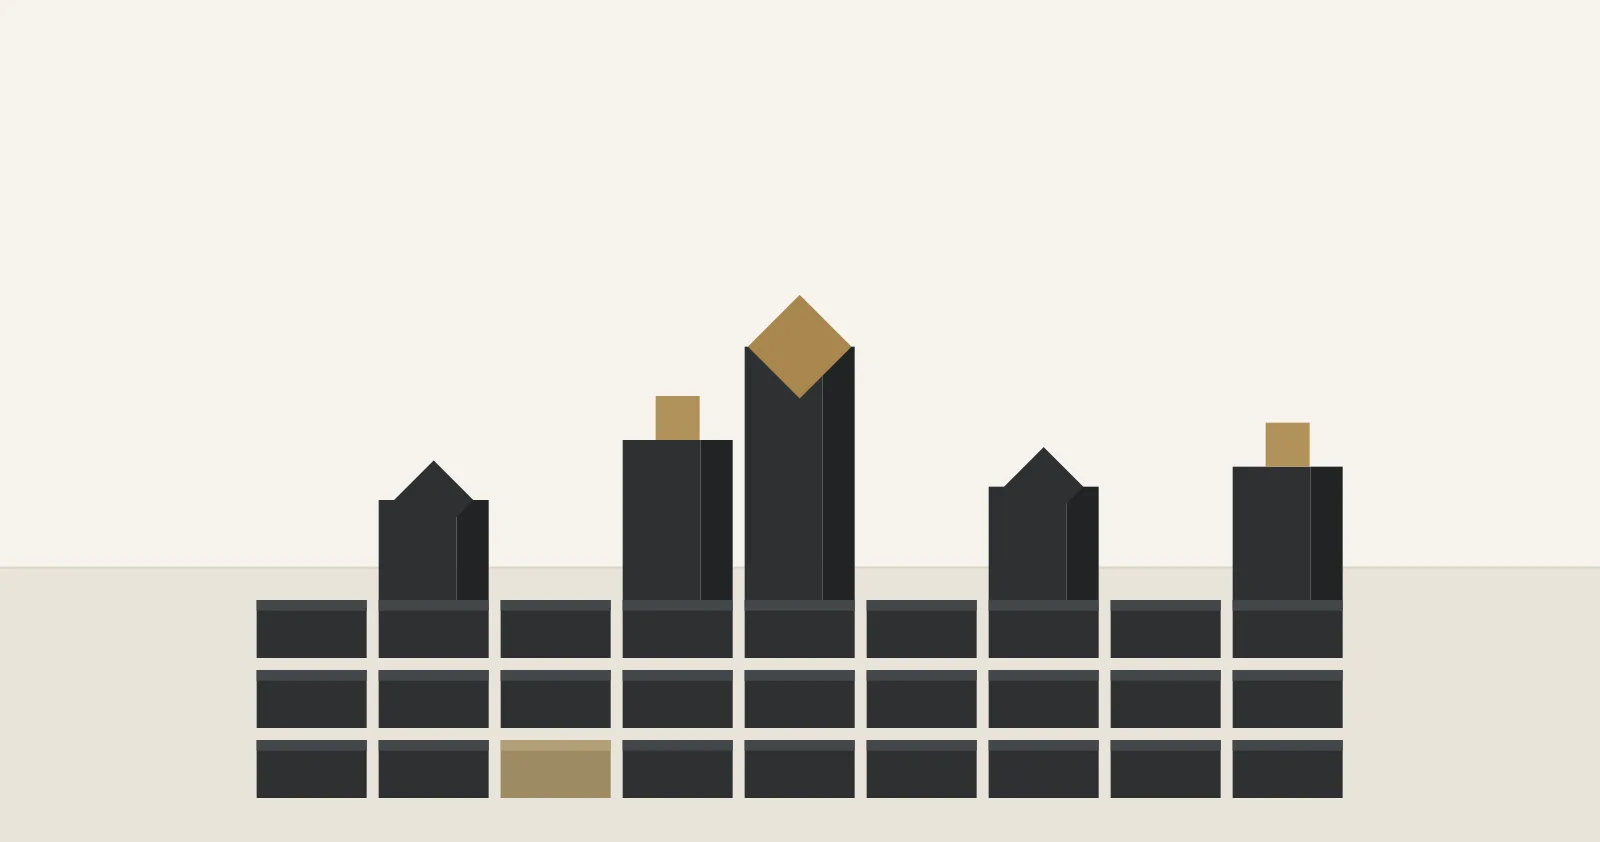
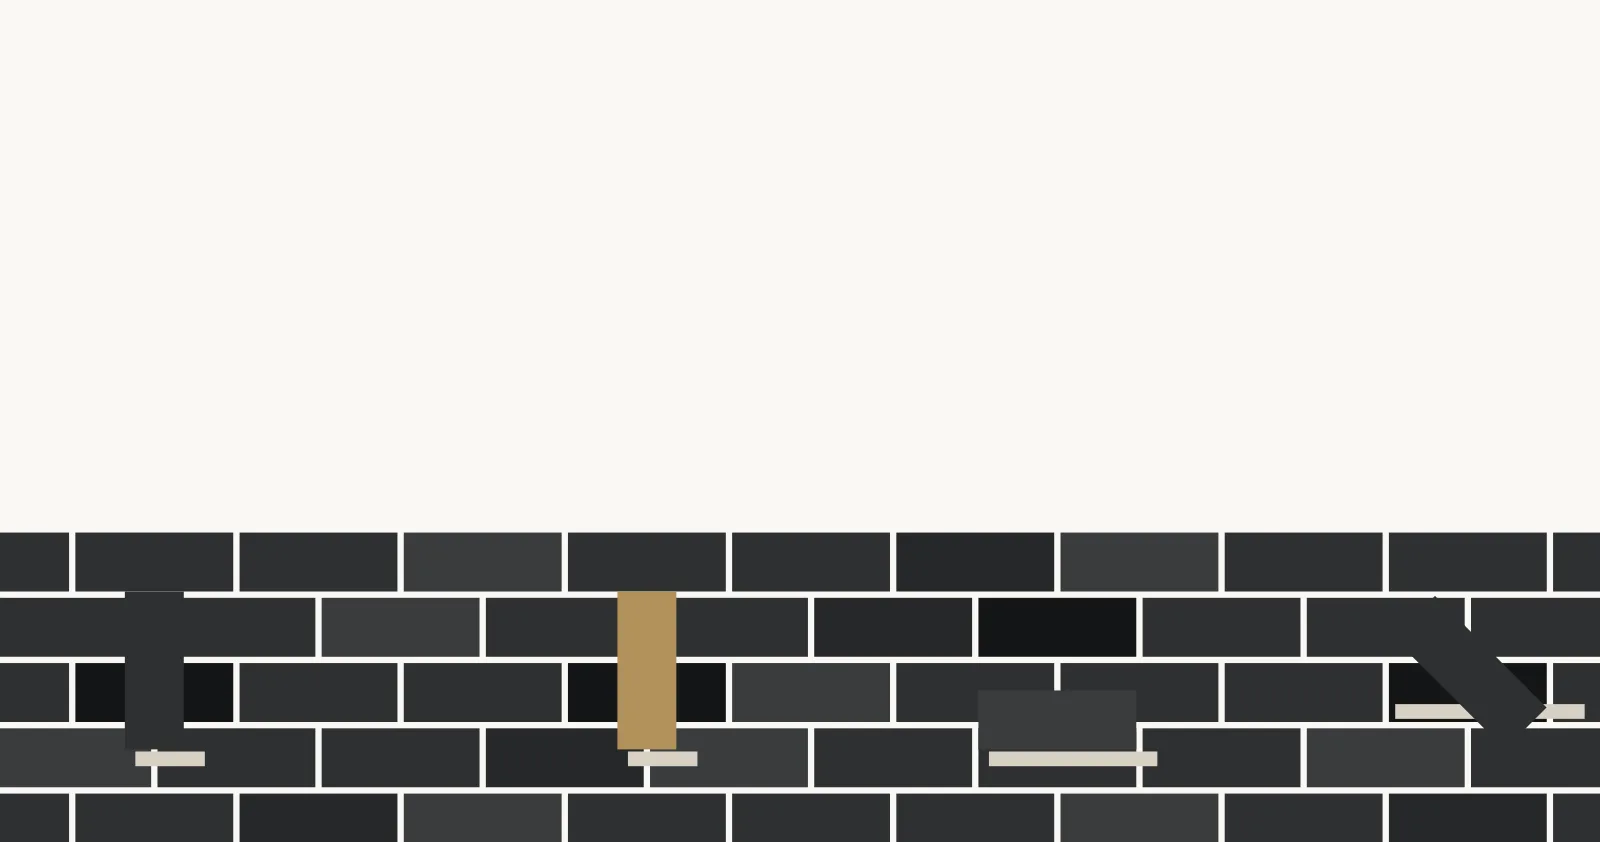
feat(future-china): redo economic-future cover with the civic-editorial-illustration skill
- New concept per the skill workflow: core judgment (individuals leaving
  the uniform structure), three metaphor families, workbench scoring
  (brick-wall removal wins 29/30), scene sentence, discard list, preflight
- Artwork: long charcoal brick wall with four empty sockets; four freed
  bricks standing independently in front, each in a different posture,
  one in restrained gold (0.7% of the frame)
- 5:2 master authored as flat-geometry SVG (rotate emitted as explicit
  polygon; the pipeline's SVG rasterizer ignores rect transforms), web and
  social variants rendered as centered cover crops
- Concept work-sheet archived beside the SVG master; coverAlt updated

Changed region(s): [[0.0, 0.3397, 1.0, 1.0]]

diff --git a/quartz/components/OfficialHome.tsx b/quartz/components/OfficialHome.tsx
@@ -274,7 +274,7 @@ const OfficialHome: QuartzComponent = ({ allFiles }: QuartzComponentProps) => {
               <img
                 class="future-lead__img"
                 src="/static/assets/v6/editorial/editorial-china-economic-future.webp"
-                alt="画面下部是一大片排列整齐、彼此相同的深灰方块；其中五个方块各自向上伸出笔直的高柱，最高的中柱顶端顶着一块金色菱形，另外两柱柱顶为金色小方块，两柱柱顶为深灰菱形；方块阵的后排还有单独一块金色方块。"
+                alt="画面下部是一道由相同深灰砖块砌成的长墙，墙身有四处空出的砖槽；墙前地面上，四块从墙中取出的砖各自独立站立——一块直立、一块横放、一块斜立成菱形，还有一块直立的小金砖。"
                 width="1600"
                 height="842"
                 loading="lazy"

diff --git a/scripts/generate-china-economic-future-cover-svg.py b/scripts/generate-china-economic-future-cover-svg.py
@@ -1,0 +1,101 @@
+#!/usr/bin/env python3
+"""
+Generate the editorial cover SVG master for 《中国经济的未来在哪里？》
+following the civic-editorial-illustration skill (concept work-sheet in
+editorial-china-economic-future-concept.md).
+
+Master: 5:2, 2000x800. Flat geometry, paper ground, charcoal brick wall,
+four freed bricks standing independently in front (one in restrained gold).
+"""
+import os
+
+W, H = 2000, 800
+PAPER = "#faf8f5"
+CHARCOAL = "#2e3031"
+CHARCOAL_LIGHT = "#3a3c3e"
+CHARCOAL_DARK = "#26282a"
+SOCKET = "#141518"
+GOLD = "#b3925a"
+SHADOW = "#d8d1c4"
+
+WALL_TOP = 500
+BRICK_W, BRICK_H, GAP = 150, 56, 6
+PITCH = BRICK_W + GAP  # 156
+COLS = 13
+
+rows = []  # (y, shift)
+y = WALL_TOP + GAP
+for r in range(5):
+    rows.append((y, (PITCH // 2) if r % 2 == 1 else 0))
+    y += BRICK_H + GAP
+
+sockets = [(2, 2), (5, 2), (7, 1), (10, 2)]
+
+
+def brick_rect(x, y, w, h, fill):
+    return f'<rect x="{x}" y="{y}" width="{w}" height="{h}" fill="{fill}"/>'
+
+
+parts = [f'<rect width="{W}" height="{H}" fill="{PAPER}"/>']
+
+# wall bricks
+for r, (ry, shift) in enumerate(rows):
+    for c in range(COLS):
+        x = c * PITCH + shift
+        if (c, r) in sockets:
+            parts.append(brick_rect(x, ry, BRICK_W, BRICK_H, SOCKET))
+            continue
+        tone = CHARCOAL
+        if (c + r) % 4 == 0:
+            tone = CHARCOAL_LIGHT
+        elif (c + r) % 7 == 0:
+            tone = CHARCOAL_DARK
+        parts.append(brick_rect(x, ry, BRICK_W, BRICK_H, tone))
+
+# freed bricks standing in front of the wall (baseline y=712)
+def freed(x, y, w, h, fill, shadow_dx=10, shadow_w=None, rotate=None):
+    sw = shadow_w if shadow_w else w + 10
+    s = (
+        f'<rect x="{x + shadow_dx}" y="{y + h + 2}" width="{sw}" height="14" '
+        f'fill="{SHADOW}"/>'
+    )
+    body = brick_rect(x, y, w, h, fill)
+    if rotate is not None:
+        cx, cy = rotate
+        # librsvg-based rasterizers in this pipeline ignore <rect
+        # transform="rotate(...)">, so emit the rotated rectangle as an
+        # explicit polygon with pre-computed corner coordinates.
+        cos45, sin45 = 0.7071067811865476, 0.7071067811865476
+        pts = []
+        for px, py in [(w / 2, h / 2), (w / 2, -h / 2), (-w / 2, -h / 2), (-w / 2, h / 2)]:
+            rx = px * cos45 - py * sin45
+            ry = px * sin45 + py * cos45
+            pts.append(f"{cx + rx:.1f},{cy + ry:.1f}")
+        body = (
+            f'<polygon points="{" ".join(pts)}" fill="{fill}"/>'
+        )
+    return s + body
+
+
+parts.append(freed(359, 562, 56, 150, CHARCOAL))               # upright
+parts.append(freed(827, 562, 56, 150, GOLD))                   # gold upright
+parts.append(freed(1170, 656, 150, 56, CHARCOAL_LIGHT))        # flat
+parts.append(                                                  # diamond
+    freed(1562, 611, 150, 56, CHARCOAL, shadow_dx=4, shadow_w=180,
+          rotate=(1637, 639)),
+)
+
+svg = (
+    f'<svg xmlns="http://www.w3.org/2000/svg" viewBox="0 0 {W} {H}">\n'
+    + "\n".join(f"  {p}" for p in parts)
+    + "\n</svg>\n"
+)
+out = os.path.join(
+    os.path.dirname(os.path.abspath(__file__)),
+    "..",
+    "quartz/static/assets/v6/editorial/source/editorial-china-economic-future.svg",
+)
+os.makedirs(os.path.dirname(out), exist_ok=True)
+with open(out, "w", encoding="utf-8") as f:
+    f.write(svg)
+print("wrote", out)

diff --git a/quartz/static/assets/v6/editorial/source/editorial-china-economic-future-concept.md b/quartz/static/assets/v6/editorial/source/editorial-china-economic-future-concept.md
@@ -1,0 +1,83 @@
+# 《中国经济的未来在哪里？》配图工作单
+
+按 `civic-editorial-illustration` Skill 流程制作（2026-11-18）。本文件与 SVG 母版同目录，
+记录概念推导；实际栅格由 `scripts/generate-china-economic-future-cover-svg.py`（母版）
+与 `scripts/generate-china-economic-future-cover.mjs`（webp 导出）执行。
+
+## 1. 核心判断（CORE JUDGMENT）
+
+中国真正的增长潜力不在继续扩张钢筋水泥式的统一结构，而在释放 14 亿普通人的
+选择与创造力：旧生产方式以组织规模取胜，未来以人的可能性取胜。
+
+## 2. 四个角色
+
+- subject：普通人（功能角色：个体创造者）
+- action：从统一的规模化结构中脱离，各自以不同方式立住
+- resistance：钢筋水泥式的统一结构与旧组织成本
+- result：千千万万个各不相同的新市场与新产物
+
+## 3. 隐喻发散（三个不同物理逻辑）
+
+1. 材料/结构：混凝土板上的方块各自"发芽"，长出的枝顶结着互不相同的几何体。
+2. 规模/空间：满载相同方块的传送带旁，几个方块被拨离，在摊位上摆出不同形态。
+3. 结构/墙体：一堵相同砖块砌成的长墙，几块砖被取出，各自以不同姿态独立立在地上。
+
+| 候选 | 简洁 | 缩略可读 | 去政治符号 | 去宣传味 | 无文字成立 | 编辑力量 | 陈词扣分 | 小计 |
+| --- | --- | --- | --- | --- | --- | --- | --- | --- |
+| 1 发芽 | 5 | 4 | 5 | 5 | 5 | 4 | 0 | 28 |
+| 2 传送带 | 4 | 3 | 5 | 5 | 4 | 5 | 0 | 26 |
+| 3 取砖 | 5 | 5 | 5 | 5 | 5 | 4 | 0 | **29** |
+
+选定：**3 取砖**。承重关系是"脱离—独立立住"：墙体仍在（旧系统），被取出的砖
+不再依赖墙，各自站成不同姿态（新个体与新市场）。
+
+## 4. 场景句（SCENE SENTENCE）
+
+一堵由相同深灰砖块砌成的长墙横贯画面下部；墙身有四处空出的砖槽；墙前的地面上，
+四块从墙中取出的砖各自独立站立——一块直立、一块横放、一块斜立成菱形，还有一块
+直立的小金砖；每块砖都在墙面上投下短而平的影子。
+
+## 5. 弃件清单（Discard list）
+
+不要人物、手、工具、传送带、文字、箭头、旗帜、徽章、制服、警示红、裂缝、坍塌、
+渐变、光效与玻璃质感。
+
+## 6. 调色
+
+- 暖白纸底 `#faf8f5`；炭黑砖 `#2e3031`（少量 `#3a3c3e` / `#26282a` 做材质微差）；
+- 哑光灰 `#6f6d69`（影子 `#d8d1c4`）；强调色金 `#b3925a` 仅一块砖，面积约 0.7%。
+
+## 7. 构图与规格
+
+- Master：5:2，2000×800；全部关键内容在中央 80% 宽度内。
+- 网站版 1600×842 与社交版 1200×630 为居中 cover 裁切（与 BATCH-1 流程一致）。
+
+## 8. 预检（Preflight）
+
+- 无标题能否感到核心矛盾（个体从统一结构中脱离、各自立住）？能。
+- 是否一个焦点？是（墙与四块独立的砖）。
+- 元素可否再减？砖可减至三块。
+- 无信息图/宣传语法？无。
+- 移动端 500×200 是否可读？大墙与小砖的尺度对比成立。
+- 隐喻是关系而非符号堆砌？是（脱离—独立关系）。
+
+## 9. 可投产提示词（供生成模型复现）
+
+> A single-panel editorial illustration, 5:2 aspect ratio, 2000x800. A long wall
+> of identical dark charcoal bricks runs across the lower part of the frame on a
+> warm off-white paper background (#faf8f5). Four brick-sized sockets are missing
+> from the wall. In front of the wall, on the ground, four bricks taken from the
+> wall stand independently, each in a different posture: one upright, one lying
+> flat, one tilted as a diamond, and one small gold brick (#b3925a) standing
+> upright. Each free brick casts a short flat matte shadow onto the wall face.
+> Palette: paper #faf8f5, charcoal #2e3031, matte gray #6f6d69; the gold accent
+> covers about 0.7% of the frame. Composition: decisive shapes inside the central
+> 80% width and 76% height; strong figure-ground separation; purposeful empty
+> paper space above the wall; slight asymmetry; scale contrast between the wall
+> mass and the small free bricks. Rendering: sober, calm, restrained original
+> editorial illustration, flat matte geometry with a light print feel, no
+> gradients, no glossy 3D, no neon, no lens flare, no photoreal stock people.
+> Exclusions: no text, letters, numerals, logos, or watermarks; no infographic
+> devices — no arrows, labels, callouts, boxes, or charts; no hands, tools,
+> uniforms, insignia, flags, maps, emblems, or official buildings; no warning
+> red, no cracks, no collapse, no poster rhetoric.

diff --git a/content/future-china/china-economic-future.md b/content/future-china/china-economic-future.md
@@ -21,7 +21,7 @@ contentType: "文章"
 featured: true
 slug: "future-china/china-economic-future"
 cover: /static/assets/v6/editorial/editorial-china-economic-future.webp
-coverAlt: "画面下部是一大片排列整齐、彼此相同的深灰方块；其中五个方块各自向上伸出笔直的高柱，最高的中柱顶端顶着一块金色菱形，另外两柱柱顶为金色小方块，两柱柱顶为深灰菱形；方块阵的后排还有单独一块金色方块。"
+coverAlt: "画面下部是一道由相同深灰砖块砌成的长墙，墙身有四处空出的砖槽；墙前地面上，四块从墙中取出的砖各自独立站立——一块直立、一块横放、一块斜立成菱形，还有一块直立的小金砖。"
 coreJudgments:
   - "中国经济真正尚未充分开发的，不是某一片土地，而是14亿人的可能性。"
   - "钢筋水泥的扩张有边界，人的需求、知识与创造力却可以不断开辟新的发展空间。"
